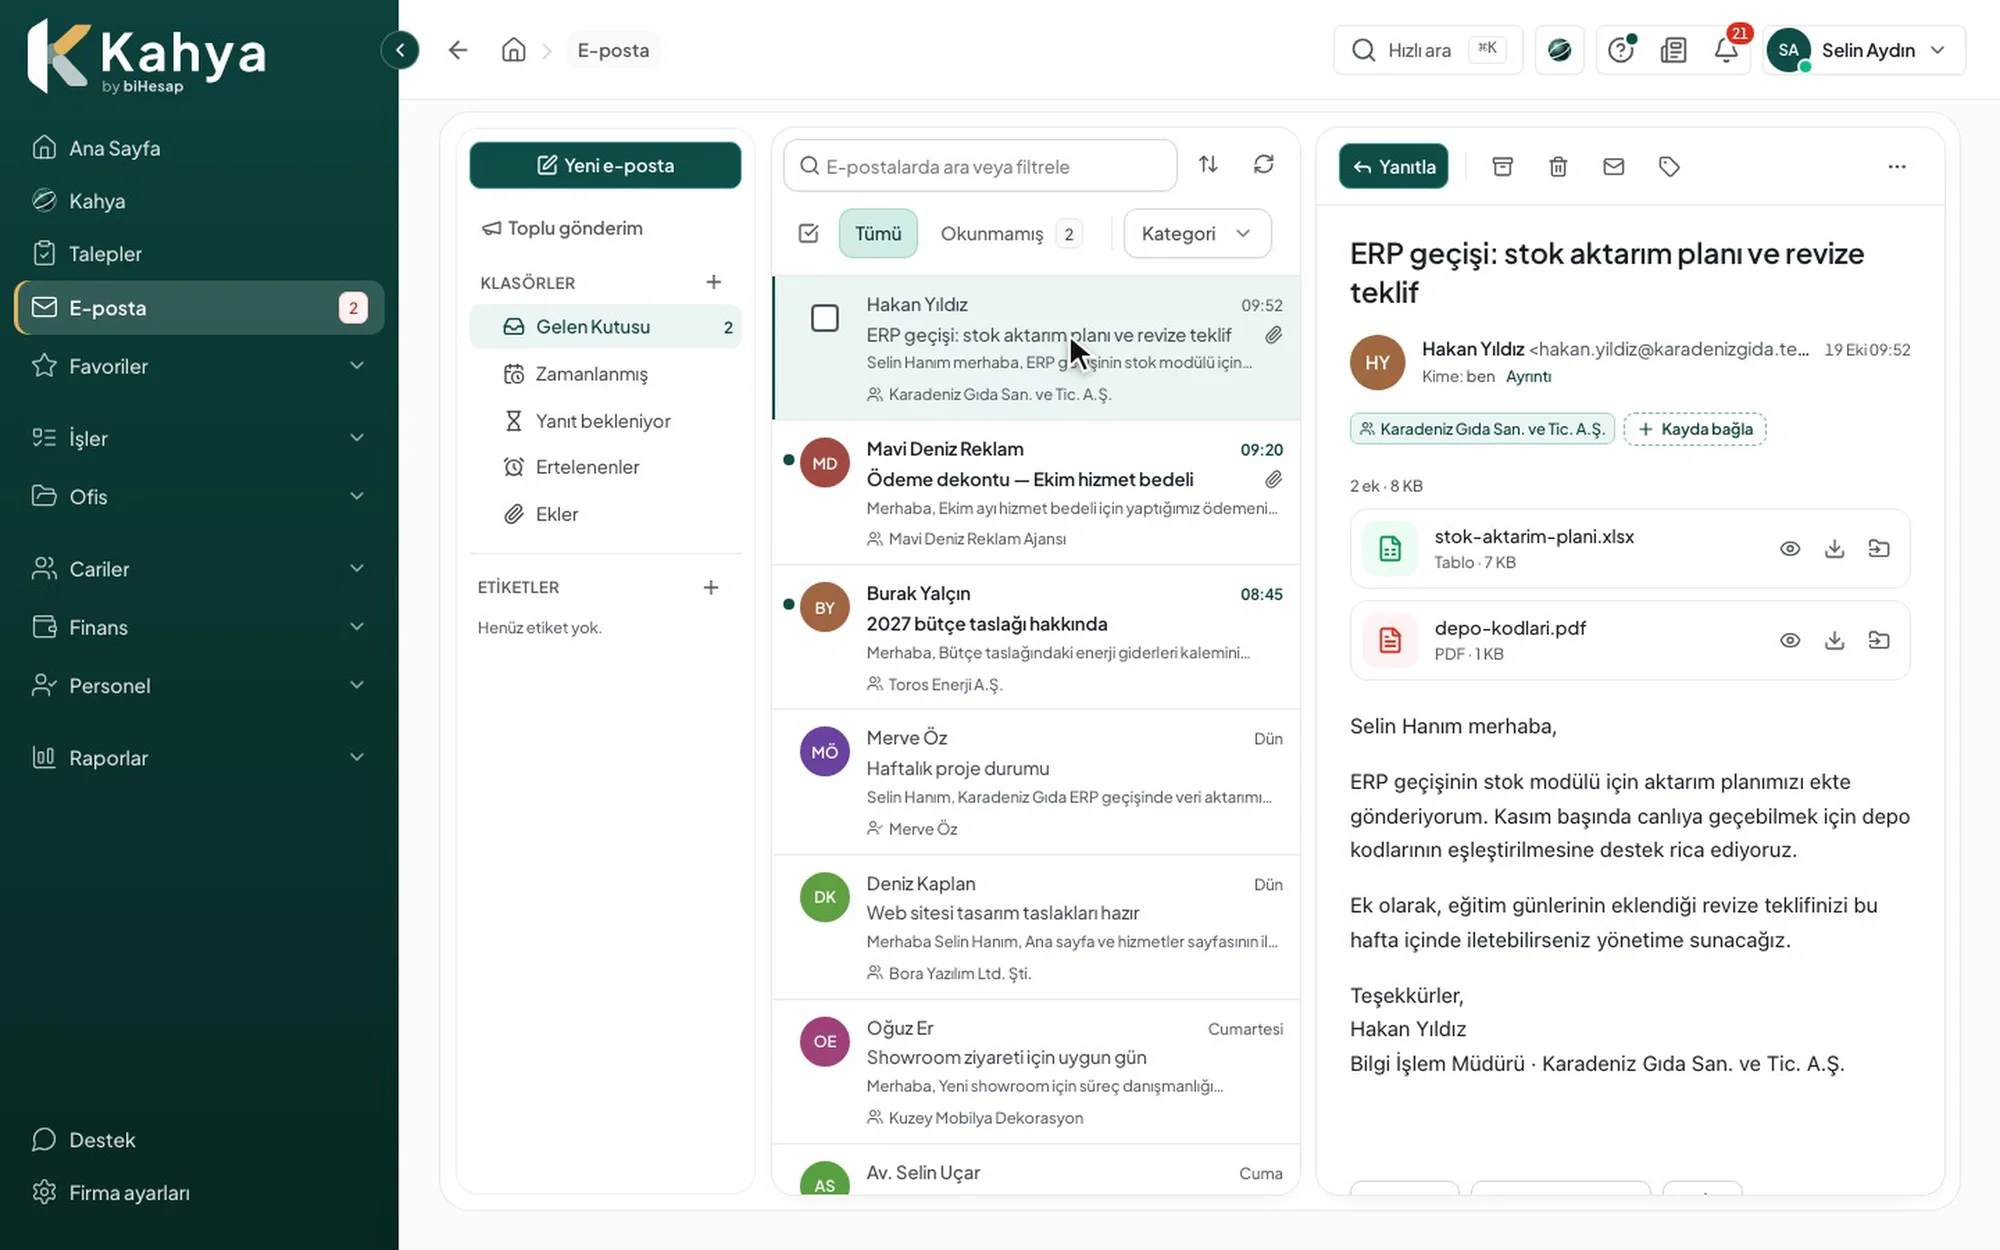
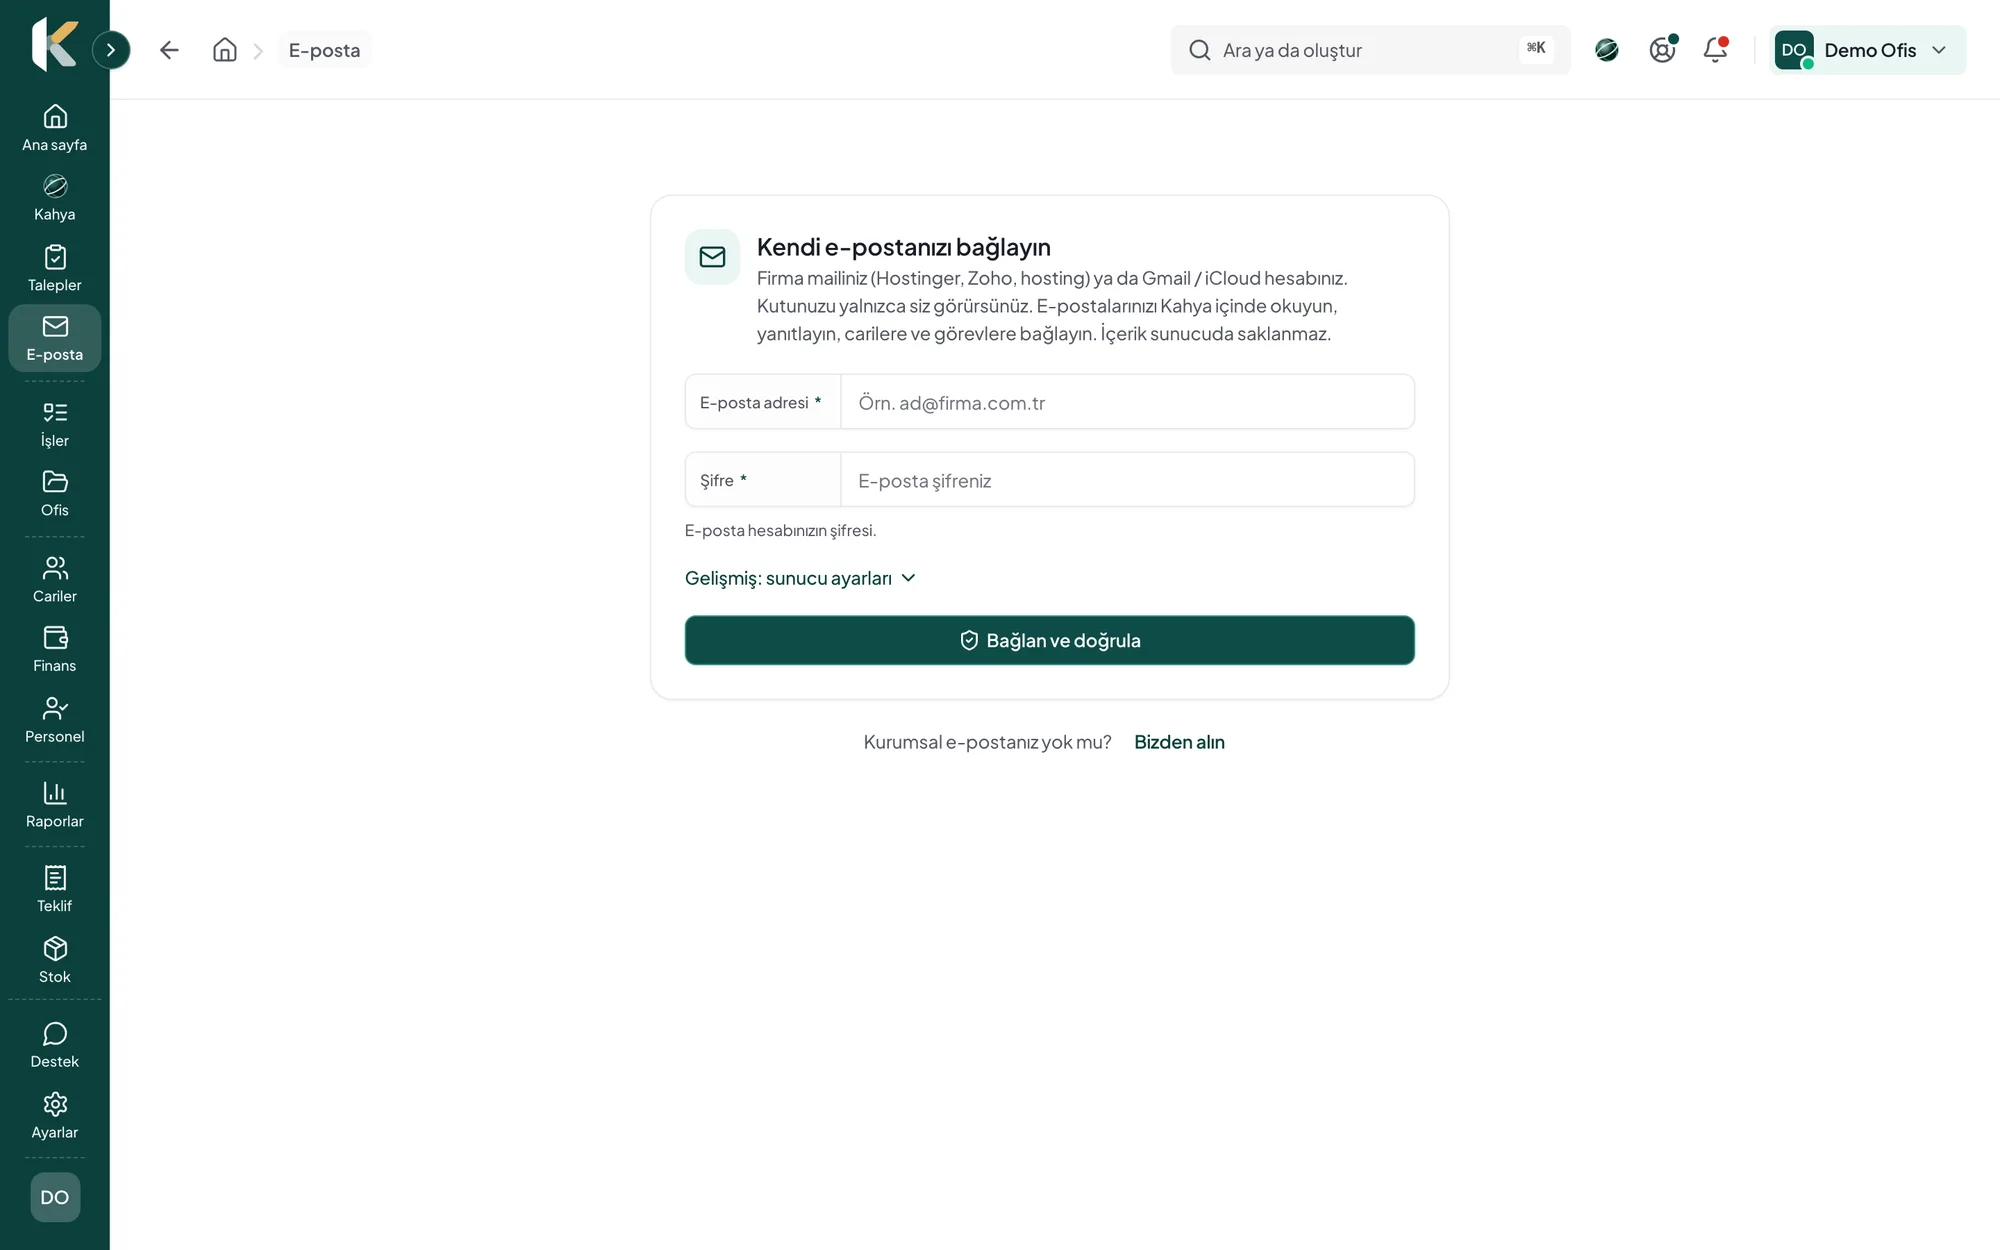
Reshoot feature screens from the demo office with sample names
Ten screenshots used on /ozellikler and add-on pages are replaced with fresh
captures from demo-ofis: no seed company or person names and no seed totals.
The payment-plans screen is now a plan detail, the AI screen is the start
view without the sample conversation list, and the e-mail screen is the
connect form; alt texts follow.

diff --git a/src/content/features.ts b/src/content/features.ts
@@ -123,7 +123,7 @@ export const features: Feature[] = [
     title: "Vadeler kâğıtta değil, önünüzde",
     lead:
       "Taksitli anlaşmaları tek seferde kurun, kira ve abonelik gibi düzenli ödemeleri tanımlayın. Vadeler takvime ve Ana Sayfa’ya düşer. Zamanı gelince hatırlatılırsınız.",
-    screen: { src: "/screens/home.webp", alt: "Kahya Ana Sayfa: bu hafta vadesi gelen tahsilat ve ödemeler" },
+    screen: { src: "/screens/home.webp", alt: "Kahya tahsilat planı: üç taksit, tahsil edilen ve kalan tutar" },
     tutorials: ["odeme-planlari-ve-vadeler", "masraflar-ve-kategoriler"],
     points: [
       {
@@ -238,7 +238,7 @@ export const features: Feature[] = [
     title: "Gelen kutunuz da burada",
     lead:
       "Firmanızın e-postası Kahya’nın içinde. Kişiler, faturalar ve bültenler otomatik ayrılır. Gönderenin cari kaydı ve ekler yanında görünür. İş isteyen e-postayı göreve çevirin.",
-    screen: { src: "/screens/mail.webp", alt: "Kahya e-posta: gelen kutusu ve açık bir e-posta" },
+    screen: { src: "/screens/mail.webp", alt: "Kahya e-posta: kendi e-posta kutunuzu bağlama ekranı" },
     tutorials: ["e-posta"],
     points: [
       {
@@ -431,7 +431,7 @@ export const features: Feature[] = [
     title: "Söyleyin, Kahya hazırlasın, siz onaylayın",
     lead:
       "Kahya AI ofisinizin kayıtlarına bakarak yanıt verir ve iş hazırlar: görev, not, tahsilat, toplantı, e-posta taslağı. Her öneri bir kart olarak gelir. Siz Onayla demeden hiçbir şey kaydedilmez.",
-    screen: { src: "/screens/receipt.webp", alt: "Kahya AI sohbeti: fişten hazırlanan alış kaydı önerisi" },
+    screen: { src: "/screens/receipt.webp", alt: "Kahya AI: hazır sorular, mesaj alanı ve kalan kredi" },
     tutorials: ["kahya-ai"],
     points: [
       {

diff --git a/src/content/addons.ts b/src/content/addons.ts
@@ -37,7 +37,7 @@ export const addons: Addon[] = [
     },
     title: "Firma e-postası, gönderenin carisiyle yan yana",
     lead: "Mevcut e-posta hesabınızı bağlarsınız. Kişiler, faturalar ve bültenler ayrı sekmelere düşer; e-postayı açınca gönderenin cari kaydı ve ekleri yanında görünür.",
-    screen: { src: "/screens/mail.webp", alt: "Kahya e-posta: gelen kutusu ve açık bir e-posta. Örnek veri.", width: 2000, height: 1250 },
+    screen: { src: "/screens/mail.webp", alt: "Kahya e-posta: kendi e-posta kutunuzu bağlama ekranı.", width: 2000, height: 1250 },
     when: [
       "Müşteri e-postaları ekipte birinin kişisel kutusunda kalıyor.",
       "Fatura ve bülten kalabalığında iş isteyen e-posta gözden kaçıyor.",
@@ -160,7 +160,7 @@ export const addons: Addon[] = [
     },
     title: "Sorun, Kahya hazırlasın, siz onaylayın",
     lead: "Kahya AI ofisinizin kayıtlarına bakarak yanıt verir ve iş hazırlar: görev, not, tahsilat, toplantı, e-posta taslağı. Her öneri bir kart olarak gelir; siz Onayla demeden hiçbir şey kaydedilmez.",
-    screen: { src: "/screens/receipt.webp", alt: "Kahya AI sohbeti: fişten hazırlanan alış kaydı önerisi. Örnek veri.", width: 2000, height: 1250 },
+    screen: { src: "/screens/receipt.webp", alt: "Kahya AI: hazır sorular, mesaj alanı ve kalan kredi.", width: 2000, height: 1250 },
     when: [
       "Gün başında neyin geciktiğini birkaç ekrandan topluyorsunuz.",
       "Fişleri akşam tek tek elle giriyorsunuz.",
